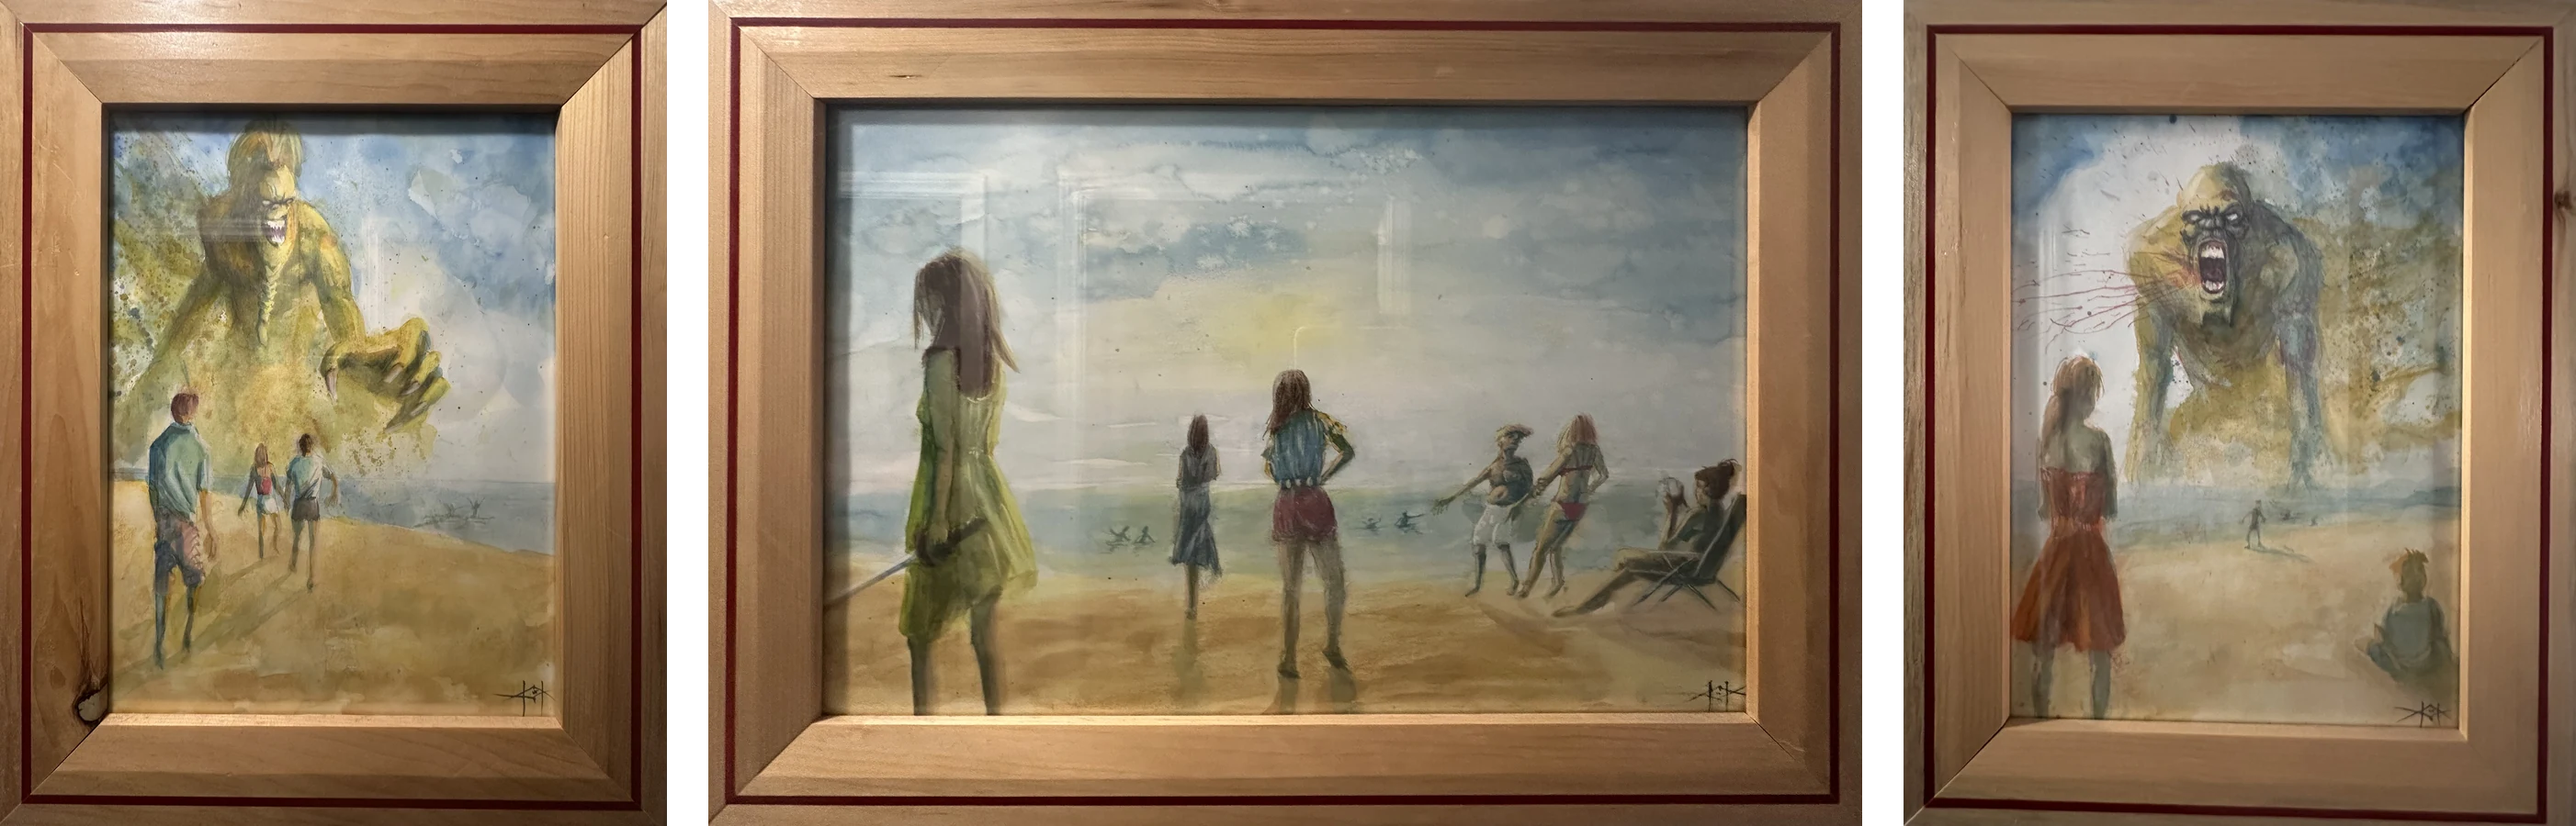
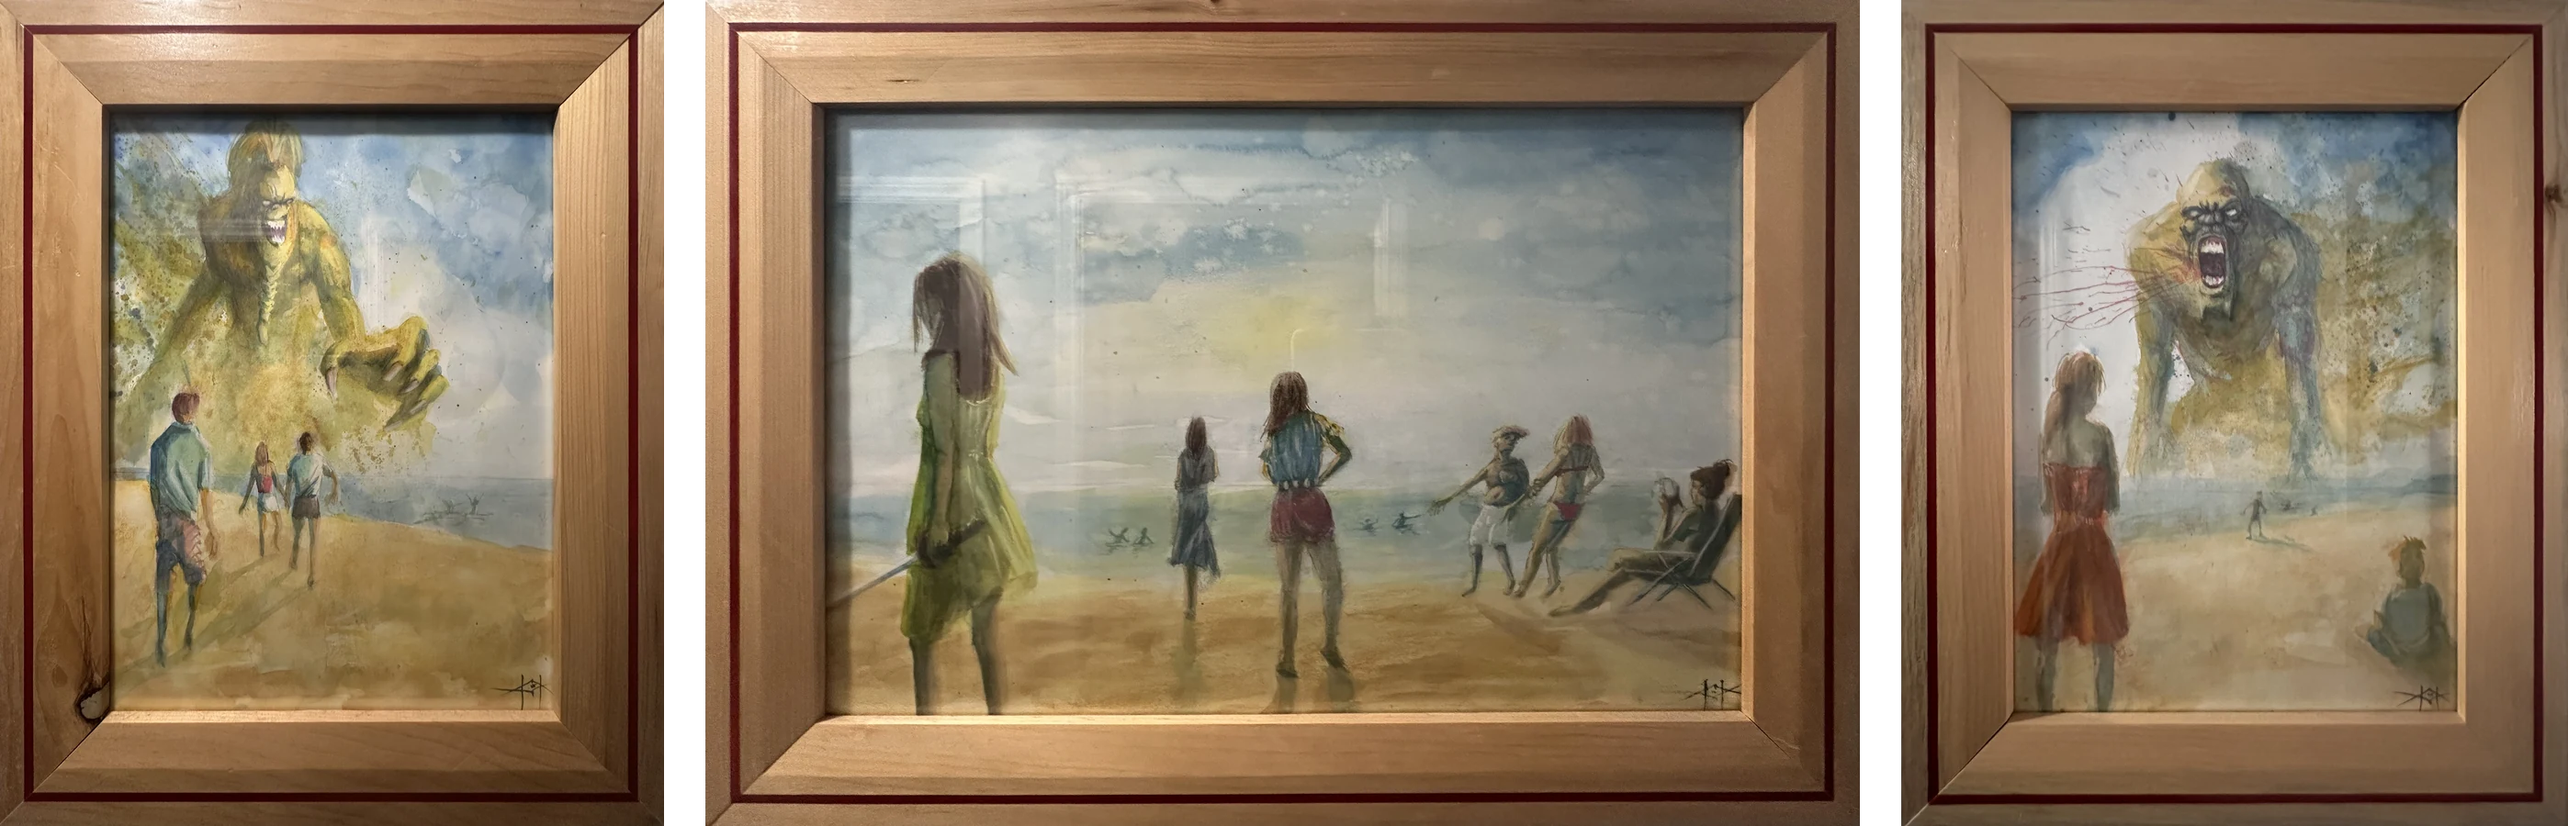
Station Beach Triptych: hang the real framed panels (hand-picked corners, side by side)

diff --git a/src/lib/images.ts b/src/lib/images.ts
@@ -37,7 +37,7 @@ const FRAMED_CUTOUTS: Record<string, { width: number; height: number }> = {
   metal_frame_01: { width: 1427, height: 1896 },
   // Station Beach Triptych: three framed panels, corners picked by hand (pale pine fooled the auto
   // straightener), perspective-corrected and hung side by side on a transparent background.
-  station_beach_framed_01: { width: 2804, height: 900 },
+  station_beach_framed_01: { width: 2796, height: 900 },
   TDS_selfportrait_2026_01: { width: 1541, height: 1868 }, // --radius=0.004 --keep-bottom
   water_frame_02: { width: 1409, height: 1883 },
 };

diff --git a/scripts/frames/corner_picker.py b/scripts/frames/corner_picker.py
@@ -1,0 +1,236 @@
+"""
+Corner picker for photos of framed paintings: drag the four corner dots onto the frame's outer corners,
+check the straightened preview, Save. Several photos (a triptych) are hung side by side, same height,
+small gap, on a transparent background, and written to public/framed/NAME.webp; the size in
+src/lib/images.ts (FRAMED_CUTOUTS) is updated to match. Corners are remembered in corners/NAME.json.
+
+    tools\\venv\\Scripts\\python scripts\\frames\\corner_picker.py NAME PHOTO [PHOTO ...]
+    tools\\venv\\Scripts\\python scripts\\frames\\corner_picker.py station_beach_framed_01     (reopen: photos from the json)
+
+Mouse: drag a dot (the magnifier shows where it lands). Keys: Tab = next dot, arrows = nudge the selected
+dot 1 screen pixel (Shift = 10), 1/2/3… = switch photo.
+The Strapi product needs a photo whose file name starts with NAME (e.g. NAME.jpg) so the site knows to
+use this cut-out; upload that once.
+"""
+from __future__ import annotations
+
+import json
+import re
+import sys
+import tkinter as tk
+from pathlib import Path
+from tkinter import messagebox, ttk
+
+import numpy as np
+from PIL import Image, ImageOps, ImageTk
+
+try:
+    import pillow_heif
+    pillow_heif.register_heif_opener()
+except ImportError:
+    pass
+
+HERE = Path(__file__).resolve().parent
+FRONTEND = HERE.parent.parent
+CORNERS = HERE / "corners"
+OUT_H = 900        # height of the finished image (px)
+GAP = 0.05         # gap between panels, share of the height
+INSET = 0.004      # trim this share inside the corners, so no wall survives
+VIEW = (900, 760)  # photo area on screen
+LOUPE, ZOOM = 180, 4
+
+
+def coeffs(dst, src):
+    a, b = [], []
+    for (x, y), (X, Y) in zip(dst, src):
+        a += [[x, y, 1, 0, 0, 0, -X * x, -X * y], [0, 0, 0, x, y, 1, -Y * x, -Y * y]]
+        b += [X, Y]
+    return np.linalg.solve(np.array(a, float), np.array(b, float))
+
+
+def straighten(im: Image.Image, pts: list[tuple[float, float]]) -> Image.Image:
+    d = lambda p, q: float(np.hypot(p[0] - q[0], p[1] - q[1]))  # noqa: E731
+    w = round((d(pts[0], pts[1]) + d(pts[3], pts[2])) / 2)
+    h = round((d(pts[0], pts[3]) + d(pts[1], pts[2])) / 2)
+    out = im.transform((w, h), Image.PERSPECTIVE, coeffs([(0, 0), (w, 0), (w, h), (0, h)], pts), Image.BICUBIC)
+    k = round(min(w, h) * INSET)
+    return out.crop((k, k, w - k, h - k))
+
+
+def hang(panels: list[Image.Image]) -> Image.Image:
+    gap = round(OUT_H * GAP)
+    ims = [p.resize((round(p.width * OUT_H / p.height), OUT_H), Image.LANCZOS) for p in panels]
+    out = Image.new("RGBA", (sum(i.width for i in ims) + gap * (len(ims) - 1), OUT_H), (0, 0, 0, 0))
+    x = 0
+    for i in ims:
+        out.paste(i.convert("RGBA"), (x, 0))
+        x += i.width + gap
+    return out
+
+
+class App(tk.Tk):
+    def __init__(self, name: str, photos: list[str], corners: list | None):
+        super().__init__()
+        self.title(f"Corner picker: {name}")
+        self.name = name
+        self.photos = photos
+        self.ims = [ImageOps.exif_transpose(Image.open(p)).convert("RGB") for p in photos]
+        self.pts = corners or [[(w * .1, h * .1), (w * .9, h * .1), (w * .9, h * .9), (w * .1, h * .9)]
+                               for w, h in (im.size for im in self.ims)]
+        self.pts = [[tuple(p) for p in c] for c in self.pts]
+        self.cur, self.sel, self.drag = 0, 0, False
+
+        top = ttk.Frame(self, padding=6)
+        top.pack(fill="x")
+        for i in range(len(self.ims)):
+            ttk.Button(top, text=f"Photo {i + 1}", command=lambda i=i: self.show(i)).pack(side="left", padx=2)
+        ttk.Button(top, text="Save", command=self.save).pack(side="right", padx=4)
+        ttk.Label(top, text="Drag the dots onto the frame's OUTER corners.  Tab: next dot · arrows: nudge "
+                            "(Shift ×10)", foreground="#555").pack(side="left", padx=12)
+        body = ttk.Frame(self)
+        body.pack(fill="both", expand=True)
+        self.cv = tk.Canvas(body, width=VIEW[0], height=VIEW[1], bg="#222", highlightthickness=0)
+        self.cv.pack(side="left", padx=6, pady=6)
+        right = ttk.Frame(body)
+        right.pack(side="left", fill="y", padx=6, pady=6)
+        ttk.Label(right, text="Magnifier").pack(anchor="w")
+        self.loupe = tk.Canvas(right, width=LOUPE, height=LOUPE, bg="#111", highlightthickness=0)
+        self.loupe.pack(anchor="w")
+        ttk.Label(right, text="This photo, straightened").pack(anchor="w", pady=(10, 0))
+        self.one = ttk.Label(right)
+        self.one.pack(anchor="w")
+        ttk.Label(self, text="All panels, as they'll hang").pack(anchor="w", padx=8)
+        self.all = ttk.Label(self)
+        self.all.pack(anchor="w", padx=8, pady=(0, 8))
+
+        self.cv.bind("<ButtonPress-1>", self.press)
+        self.cv.bind("<B1-Motion>", self.move)
+        self.cv.bind("<ButtonRelease-1>", self.release)
+        self.bind("<Tab>", lambda e: (self.select((self.sel + 1) % 4), "break")[1])
+        for key, dx, dy in (("Left", -1, 0), ("Right", 1, 0), ("Up", 0, -1), ("Down", 0, 1)):
+            self.bind(f"<{key}>", lambda e, dx=dx, dy=dy: self.nudge(dx, dy, 1))
+            self.bind(f"<Shift-{key}>", lambda e, dx=dx, dy=dy: self.nudge(dx, dy, 10))
+        for i in range(len(self.ims)):
+            self.bind(str(i + 1), lambda e, i=i: self.show(i))
+        self.show(0)
+        self.preview_all()
+
+    # ---- drawing
+    def show(self, i: int):
+        self.cur = i
+        im = self.ims[i]
+        self.s = min(VIEW[0] / im.width, VIEW[1] / im.height)
+        small = im.resize((round(im.width * self.s), round(im.height * self.s)))
+        self.tkimg = ImageTk.PhotoImage(small)
+        self.select(self.sel)
+
+    def select(self, k: int):
+        self.sel = k
+        self.redraw()
+        self.draw_loupe()
+
+    def redraw(self):
+        cv, s = self.cv, self.s
+        cv.delete("all")
+        cv.create_image(0, 0, image=self.tkimg, anchor="nw")
+        p = [(x * s, y * s) for x, y in self.pts[self.cur]]
+        cv.create_polygon(*sum(p, ()), outline="#00ff88", fill="", width=1)
+        for k, (x, y) in enumerate(p):
+            r = 7 if k == self.sel else 5
+            cv.create_oval(x - r, y - r, x + r, y + r, outline="#ff3b6b" if k == self.sel else "#00ff88", width=2)
+            cv.create_text(x + 12, y - 12, text="TL TR BR BL".split()[k], fill="white")
+
+    def draw_loupe(self):
+        x, y = self.pts[self.cur][self.sel]
+        half = LOUPE / ZOOM / 2 / self.s  # source pixels around the dot
+        box = (int(x - half), int(y - half), int(x + half), int(y + half))
+        crop = self.ims[self.cur].crop(box).resize((LOUPE, LOUPE), Image.NEAREST)
+        self.loupe_img = ImageTk.PhotoImage(crop)
+        self.loupe.delete("all")
+        self.loupe.create_image(0, 0, image=self.loupe_img, anchor="nw")
+        c = LOUPE / 2
+        self.loupe.create_line(c, 0, c, LOUPE, fill="#ff3b6b")
+        self.loupe.create_line(0, c, LOUPE, c, fill="#ff3b6b")
+
+    def preview_one(self):
+        im = straighten(self.ims[self.cur], self.pts[self.cur])
+        im.thumbnail((300, 300))
+        self.one_img = ImageTk.PhotoImage(im)
+        self.one.config(image=self.one_img)
+
+    def preview_all(self):
+        out = hang([straighten(im, p) for im, p in zip(self.ims, self.pts)])
+        bg = Image.new("RGB", out.size, (74, 20, 24))
+        bg.paste(out, mask=out.split()[3])
+        bg.thumbnail((1200, 260))
+        self.all_img = ImageTk.PhotoImage(bg)
+        self.all.config(image=self.all_img)
+        self.preview_one()
+
+    # ---- editing
+    def press(self, e):
+        p = [(x * self.s, y * self.s) for x, y in self.pts[self.cur]]
+        k = min(range(4), key=lambda k: (p[k][0] - e.x) ** 2 + (p[k][1] - e.y) ** 2)
+        self.drag = True
+        self.select(k)
+        self.move(e)
+
+    def move(self, e):
+        if not self.drag:
+            return
+        im = self.ims[self.cur]
+        x = min(max(e.x / self.s, 0), im.width - 1)
+        y = min(max(e.y / self.s, 0), im.height - 1)
+        self.pts[self.cur][self.sel] = (x, y)
+        self.redraw()
+        self.draw_loupe()
+
+    def release(self, _e):
+        self.drag = False
+        self.preview_all()
+
+    def nudge(self, dx, dy, n):
+        x, y = self.pts[self.cur][self.sel]
+        self.pts[self.cur][self.sel] = (x + dx * n / self.s, y + dy * n / self.s)
+        self.redraw()
+        self.draw_loupe()
+        self.after_idle(self.preview_all)
+
+    # ---- saving
+    def save(self):
+        out = hang([straighten(im, p) for im, p in zip(self.ims, self.pts)])
+        dest = FRONTEND / "public" / "framed" / f"{self.name}.webp"
+        out.save(dest, quality=88, method=6)
+        CORNERS.mkdir(exist_ok=True)
+        (CORNERS / f"{self.name}.json").write_text(json.dumps(
+            {"photos": self.photos, "corners": [[[round(x, 1), round(y, 1)] for x, y in c] for c in self.pts]},
+            indent=1))
+        ts = FRONTEND / "src" / "lib" / "images.ts"
+        src = ts.read_text(encoding="utf-8")
+        line = f"  {self.name}: {{ width: {out.width}, height: {out.height} }},"
+        pat = re.compile(rf"^  {re.escape(self.name)}: \{{ width: \d+, height: \d+ \}},", re.M)
+        if pat.search(src):
+            src = pat.sub(line, src)
+        else:
+            src = src.replace("const FRAMED_CUTOUTS: Record<string, { width: number; height: number }> = {\n",
+                              "const FRAMED_CUTOUTS: Record<string, { width: number; height: number }> = {\n"
+                              + line + "\n", 1)
+        ts.write_text(src, encoding="utf-8")
+        messagebox.showinfo("Saved", f"Wrote public/framed/{self.name}.webp ({out.width}×{out.height})\n"
+                                     f"and updated src/lib/images.ts.\n\nCommit those two, push to develop, "
+                                     f"Deploy Preview to see it.")
+
+
+def main():
+    if len(sys.argv) < 2:
+        sys.exit(__doc__)
+    name, photos = sys.argv[1], sys.argv[2:]
+    saved = json.loads((CORNERS / f"{name}.json").read_text()) if (CORNERS / f"{name}.json").exists() else {}
+    if not photos:
+        photos = saved.get("photos") or sys.exit(f"No photos given and no corners/{name}.json yet.")
+    corners = saved.get("corners") if saved.get("photos") == photos else None
+    App(name, photos, corners).mainloop()
+
+
+if __name__ == "__main__":
+    main()
